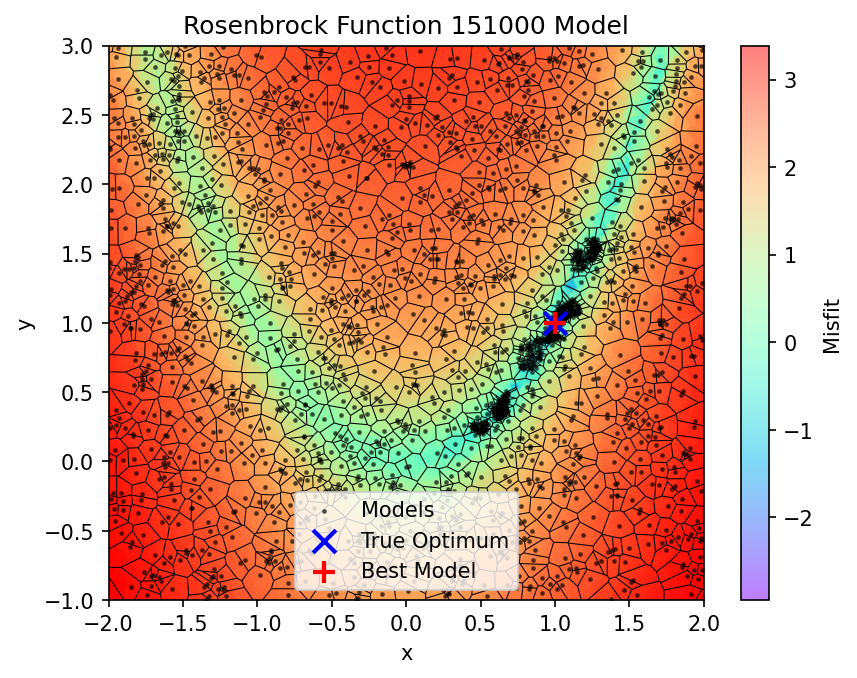
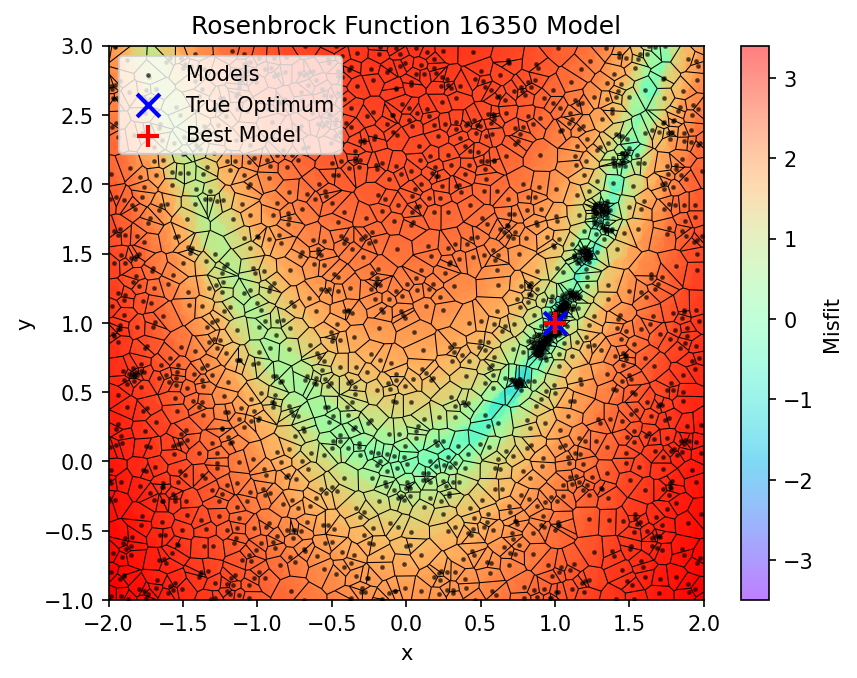
sedikit perubahan

diff --git a/main.py b/main.py
@@ -75,11 +75,12 @@ while True:
     repeat = input("Repeat program? (y/n): ")
 
     if repeat.lower() != 'y':
+        print()
         break  
 
+downsampling = min(int(input("Use n Ensemble 1-100% : ")), 100)
 
-
-filter = NP.linspace(0, len(misfits) - 1, int(len(misfits)*0.5), dtype=int)
+filter = NP.linspace(0, len(misfits) - 1, int(len(misfits)*(downsampling/100)), dtype=int)
 
 models_filter  = models[filter]
 misfits_filter = misfits[filter]

diff --git a/MT/create_syntetic.py b/MT/create_syntetic.py
@@ -86,5 +86,5 @@ ax1.set_ylabel("Phase (deg)")
 ax1.set_ylim(0, 90)
 
 plt.tight_layout()
-fig.savefig("MT/anu.png", dpi=150, bbox_inches="tight", facecolor="white")
+fig.savefig("MT/kurvaSintetik.png", dpi=150, bbox_inches="tight", facecolor="white")
 plt.close(fig)

diff --git a/config.py b/config.py
@@ -5,7 +5,7 @@ nr = 10
 ns = 150
 
 ni = 1500
-iter = 500
+iter = 100
 
 seed = None
 
